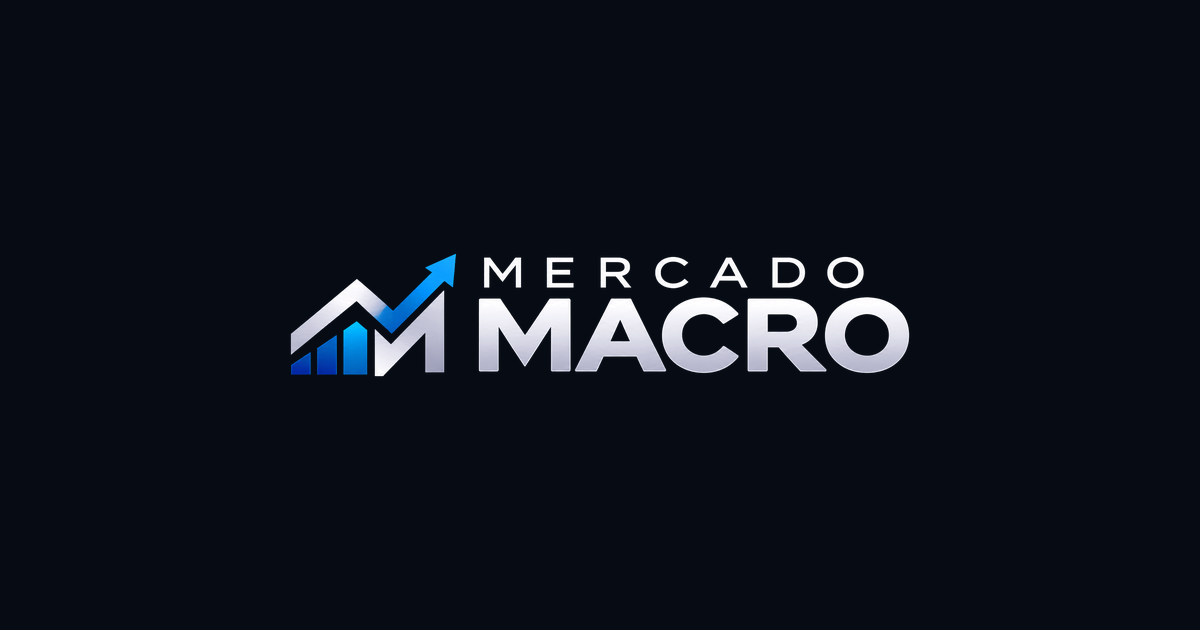
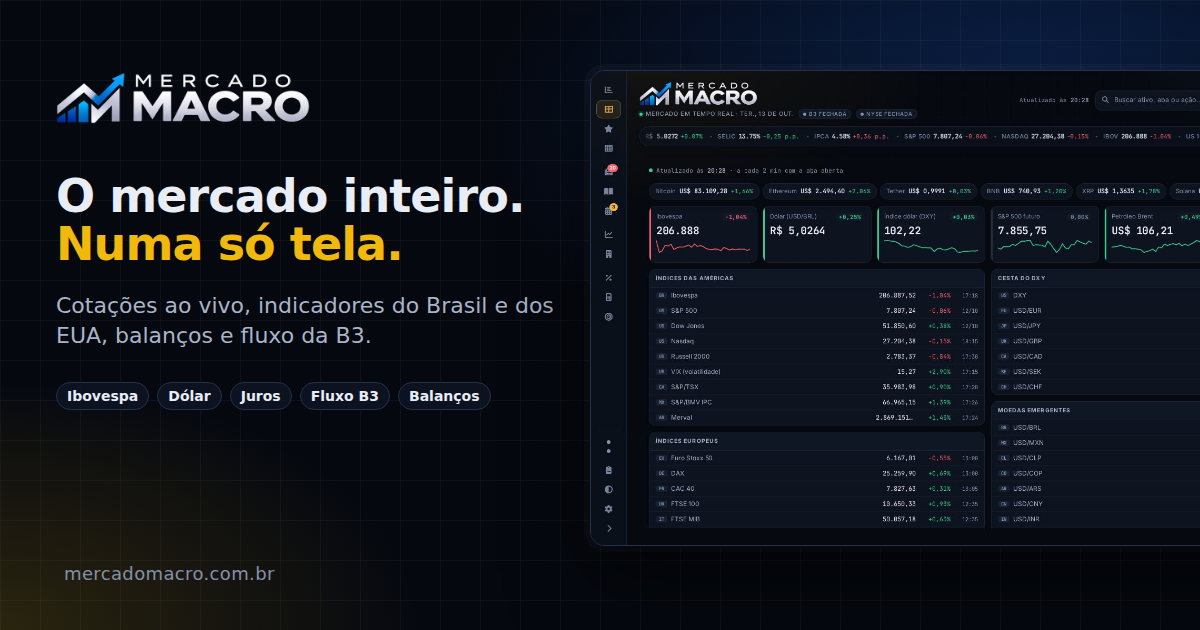
Google: vitrine na página inicial, título e descrição, prévia nova, robots.txt, sitemap e www para o endereço sem www
Claude-Session: https://claude.ai/code/session_013TMrWRZdcyTywbcM9vbHLo

diff --git a/terminal/station/site/vitrine/index.html b/terminal/station/site/vitrine/index.html
@@ -3,14 +3,32 @@
 <head>
 <meta charset="utf-8">
 <meta name="viewport" content="width=device-width, initial-scale=1">
-<title>Mercado Macro | Terminal financeiro</title>
-<meta name="description" content="Terminal financeiro completo: cotações ao vivo, mesa de operações, mapa de calor, indicadores do Brasil e dos EUA, fundamentos, fluxo na B3, calculadoras e opções.">
+<title>Mercado Macro | Terminal financeiro: cotações, indicadores e fluxo da B3</title>
+<meta name="description" content="Terminal financeiro brasileiro: cotações ao vivo, Ibovespa, dólar, juros, mapa de calor, indicadores do Brasil e dos EUA, balanços de empresas, fluxo do estrangeiro na B3 e calculadoras.">
+<link rel="canonical" href="https://mercadomacro.com.br/">
+<meta name="robots" content="index, follow, max-image-preview:large">
 <meta name="theme-color" content="#05080f">
 <meta property="og:type" content="website">
-<meta property="og:title" content="Mercado Macro | Terminal financeiro">
-<meta property="og:description" content="O mercado inteiro numa só tela. Peça seu acesso.">
-<meta property="og:image" content="/previa-link-mercado-macro.png">
+<meta property="og:site_name" content="Mercado Macro">
+<meta property="og:locale" content="pt_BR">
+<meta property="og:url" content="https://mercadomacro.com.br/">
+<meta property="og:title" content="Mercado Macro | O mercado inteiro numa só tela">
+<meta property="og:description" content="Cotações ao vivo, indicadores do Brasil e dos EUA, balanços, fluxo do estrangeiro na B3 e calculadoras num só terminal.">
+<meta property="og:image" content="https://mercadomacro.com.br/previa-link-mercado-macro.png?v=2">
+<meta property="og:image:width" content="1200">
+<meta property="og:image:height" content="630">
+<meta property="og:image:alt" content="Painel do Mercado Macro com cotações e indicadores">
 <meta name="twitter:card" content="summary_large_image">
+<meta name="twitter:title" content="Mercado Macro | O mercado inteiro numa só tela">
+<meta name="twitter:description" content="Cotações ao vivo, indicadores do Brasil e dos EUA, balanços, fluxo do estrangeiro na B3 e calculadoras num só terminal.">
+<meta name="twitter:image" content="https://mercadomacro.com.br/previa-link-mercado-macro.png?v=2">
+<script type="application/ld+json">
+{"@context":"https://schema.org","@graph":[
+ {"@type":"Organization","@id":"https://mercadomacro.com.br/#org","name":"Mercado Macro","url":"https://mercadomacro.com.br/","logo":"https://mercadomacro.com.br/icone-512.png"},
+ {"@type":"WebSite","@id":"https://mercadomacro.com.br/#site","name":"Mercado Macro","url":"https://mercadomacro.com.br/","inLanguage":"pt-BR","publisher":{"@id":"https://mercadomacro.com.br/#org"}},
+ {"@type":"WebApplication","name":"Mercado Macro","url":"https://mercadomacro.com.br/","applicationCategory":"FinanceApplication","operatingSystem":"Web","inLanguage":"pt-BR","description":"Terminal financeiro com cotações ao vivo, indicadores do Brasil e dos EUA, balanços de empresas, fluxo do estrangeiro na B3 e calculadoras.","publisher":{"@id":"https://mercadomacro.com.br/#org"}}
+]}
+</script>
 <link rel="icon" type="image/png" href="/icone-mercado-macro.png">
 <link rel="apple-touch-icon" href="/icone-192.png">
 <link rel="preconnect" href="https://fonts.googleapis.com">

diff --git a/terminal/station/src/index.js b/terminal/station/src/index.js
@@ -14,13 +14,19 @@ export default {
   async fetch(req, env, ctx) {
     const url = new URL(req.url);
     const p = url.pathname;
+    // um endereço só para o Google: www vai para o endereço sem www
+    if (url.hostname === 'www.mercadomacro.com.br') return Response.redirect('https://mercadomacro.com.br' + p + url.search, 301);
     try {
       if (p === '/entrar') return paginaEntrar(req, env);
+      if (p === '/robots.txt') return texto(ROBOTS, 'text/plain');
+      if (p === '/sitemap.xml') return texto(SITEMAP, 'application/xml');
       if (p.startsWith('/api/auth/')) return await apiAuth(req, env, p.slice(10), ctx);
       if (PUBLICO.test(p)) return env.ASSETS.fetch(req);
 
       const u = await usuarioDaSessao(req, env);
       if (!u) {
+        // a página inicial mostra a vitrine para quem não entrou (e para o Google), sem redirecionar
+        if ((p === '/' || p === '/index.html') && navegacao(req)) return paginaEntrar(req, env, true);
         if (navegacao(req)) {
           const volta = p === '/' || p === '/index.html' ? '' : '?volta=' + encodeURIComponent(p + url.search);
           return redirect('/entrar' + volta);
@@ -304,14 +310,31 @@ function redirect(to) {
   return new Response(null, { status: 302, headers: { Location: to, 'Cache-Control': 'no-store' } });
 }
 // a tela de entrada é a vitrine (station/site/vitrine/index.html)
-async function paginaEntrar(req, env) {
-  if (await usuarioDaSessao(req, env)) return redirect('/');
+async function paginaEntrar(req, env, jaSemLogin) {
+  if (!jaSemLogin && (await usuarioDaSessao(req, env))) return redirect('/');
   const r = await env.ASSETS.fetch(new Request(new URL('/vitrine/', req.url), { headers: req.headers }));
   const out = new Response(r.body, r);
   out.headers.set('Cache-Control', 'no-cache');
   out.headers.set('X-Frame-Options', 'DENY');
   return out;
 }
+
+function texto(s, tipo) {
+  return new Response(s, { headers: { 'Content-Type': tipo + '; charset=utf-8', 'Cache-Control': 'public, max-age=3600' } });
+}
+const ROBOTS = `User-agent: *
+Allow: /
+Disallow: /api/
+Disallow: /admin
+Disallow: /conta
+
+Sitemap: https://mercadomacro.com.br/sitemap.xml
+`;
+const SITEMAP = `<?xml version="1.0" encoding="UTF-8"?>
+<urlset xmlns="http://www.sitemaps.org/schemas/sitemap/0.9">
+  <url><loc>https://mercadomacro.com.br/</loc><changefreq>weekly</changefreq><priority>1.0</priority></url>
+</urlset>
+`;
 
 /* ---------------- páginas ---------------- */
 const BASE_CSS = `

diff --git a/terminal/station/site/index.html b/terminal/station/site/index.html
@@ -17,7 +17,7 @@
 <meta property="og:site_name" content="Mercado Macro">
 <meta property="og:title" content="Mercado Macro | Painel do mercado">
 <meta property="og:description" content="Cotações, juros, câmbio, indicadores e calendário econômico em um só painel.">
-<meta property="og:image" content="https://station.danilo-nillo.workers.dev/previa-link-mercado-macro.png">
+<meta property="og:image" content="https://mercadomacro.com.br/previa-link-mercado-macro.png?v=2">
 <link rel="preconnect" href="https://fonts.googleapis.com">
 <link rel="preconnect" href="https://fonts.gstatic.com" crossorigin>
 <link href="https://fonts.googleapis.com/css2?family=Inter:wght@400;500;600;700&family=JetBrains+Mono:wght@400;500;600&display=swap" rel="stylesheet">
